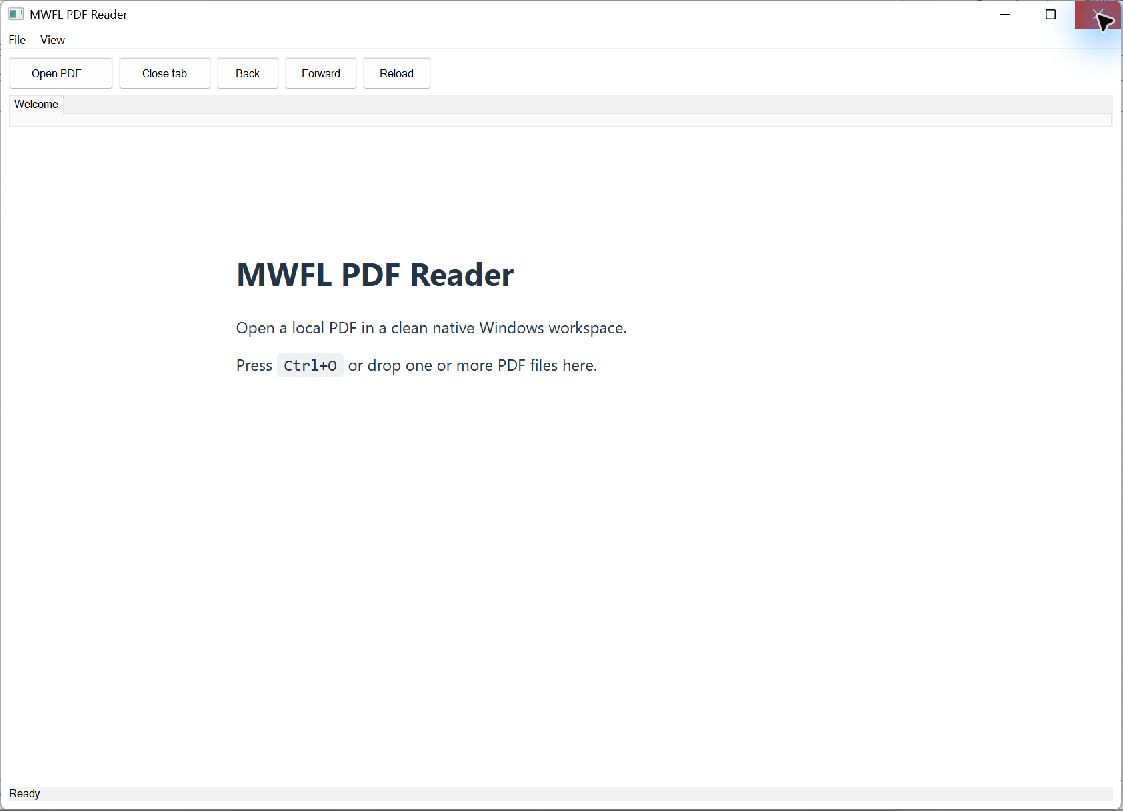
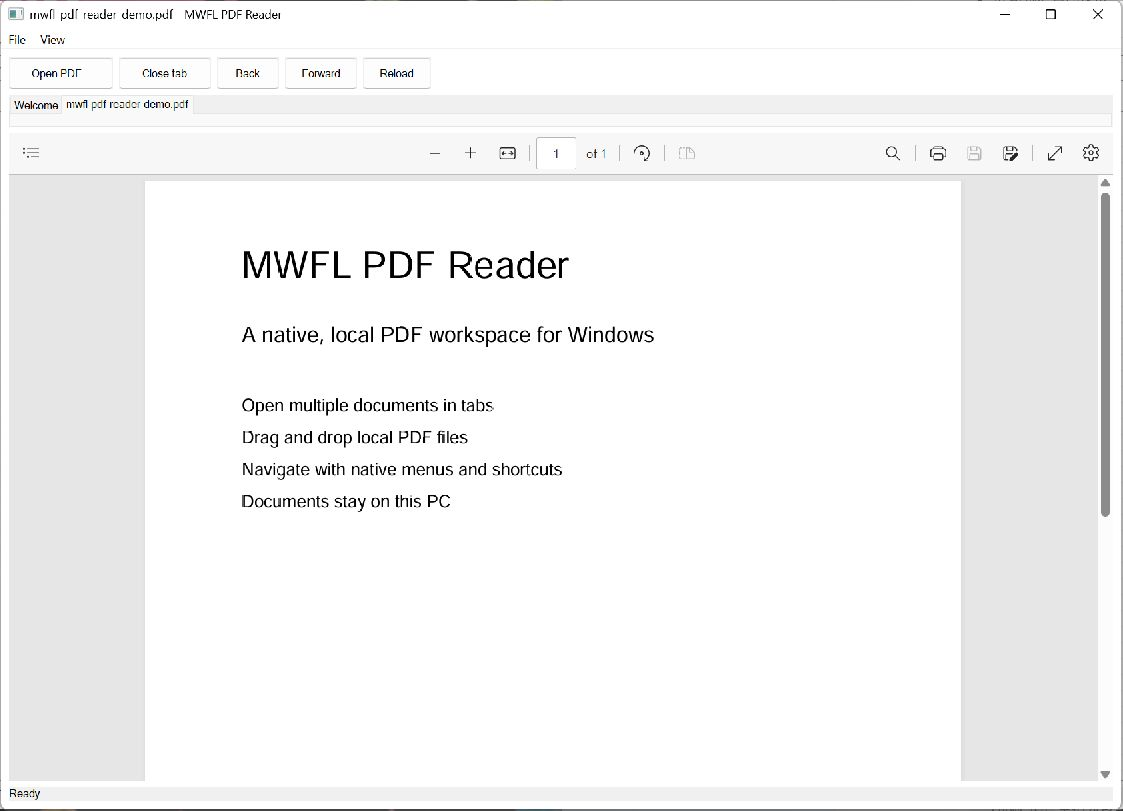
Add portable demo releases

diff --git a/main.cpp b/main.cpp
@@ -74,7 +74,13 @@ bool WriteSelfTestPdf(const std::filesystem::path& path) {
     object(3,
            "<< /Type /Page /Parent 2 0 R /MediaBox [0 0 612 792] "
            "/Resources << /Font << /F1 5 0 R >> >> /Contents 4 0 R >>");
-    constexpr std::string_view content = "BT /F1 24 Tf 72 720 Td (MWFL PDF Reader) Tj ET";
+    constexpr std::string_view content =
+        "BT /F1 28 Tf 72 720 Td (MWFL PDF Reader) Tj "
+        "0 -48 Td /F1 16 Tf (A native, local PDF workspace for Windows) Tj "
+        "0 -52 Td /F1 13 Tf (Open multiple documents in tabs) Tj "
+        "0 -24 Td (Drag and drop local PDF files) Tj "
+        "0 -24 Td (Navigate with native menus and shortcuts) Tj "
+        "0 -24 Td (Documents stay on this PC) Tj ET";
     object(4, std::string{"<< /Length "} + std::to_string(content.size()) + " >>\nstream\n" +
                   std::string(content) + "\nendstream");
     object(5, "<< /Type /Font /Subtype /Type1 /BaseFont /Helvetica >>");
@@ -97,7 +103,9 @@ class PdfViewerWindow final : public mwfl::WindowBase {
     void BuildUI() override {
         self_test_ =
             std::wstring_view{::GetCommandLineW()}.find(L"--self-test") != std::wstring_view::npos;
-        if (!self_test_) {
+        showcase_ =
+            std::wstring_view{::GetCommandLineW()}.find(L"--showcase") != std::wstring_view::npos;
+        if (!self_test_ && !showcase_) {
             const auto loaded = mwfl::LoadRecentFilesFromRegistry(HKEY_CURRENT_USER, kSettingsKey,
                                                                   recent_.GetMaximumEntries());
             if (loaded.Succeeded()) recent_ = std::move(*loaded.value);
@@ -184,14 +192,14 @@ class PdfViewerWindow final : public mwfl::WindowBase {
     }
 
     mwfl::EventResult OnClose() override {
-        if (!self_test_) {
+        if (!self_test_ && !showcase_) {
             mwfl::SavedWindowPlacement placement;
             if (mwfl::CaptureWindowPlacement(GetHwnd(), placement))
                 static_cast<void>(mwfl::SaveWindowPlacementToRegistry(
                     HKEY_CURRENT_USER, kSettingsKey, L"WindowPlacement", placement));
         }
         viewer_.Close();
-        if (self_test_) {
+        if (self_test_ || showcase_) {
             std::error_code ignored;
             std::filesystem::remove_all(user_data_folder_, ignored);
             std::filesystem::remove(self_test_pdf_, ignored);
@@ -261,7 +269,7 @@ class PdfViewerWindow final : public mwfl::WindowBase {
     }
 
     void StartViewer() {
-        if (self_test_)
+        if (self_test_ || showcase_)
             user_data_folder_ = std::filesystem::temp_directory_path() /
                                 (L"mwfl-pdf-viewer-" + std::to_wstring(::GetCurrentProcessId()));
         const bool started = viewer_.Initialize(
@@ -279,6 +287,14 @@ class PdfViewerWindow final : public mwfl::WindowBase {
                      }
                      if (const auto initial = InitialPdfFromCommandLine(); !initial.empty())
                          OpenPath(initial);
+                     else if (showcase_) {
+                         self_test_pdf_ = std::filesystem::temp_directory_path() /
+                                          L"mwfl-pdf-reader-demo.pdf";
+                         if (WriteSelfTestPdf(self_test_pdf_))
+                             OpenPath(self_test_pdf_);
+                         else
+                             status_.SetText(L"The showcase PDF could not be created");
+                     }
                      else
                          ShowWelcome();
                  },
@@ -347,7 +363,7 @@ class PdfViewerWindow final : public mwfl::WindowBase {
         tabs_model_.Add({id, path.filename().wstring(), false, true});
         tabs_model_.Select(id);
         tabs_.Synchronize(tabs_model_);
-        if (!self_test_) {
+        if (!self_test_ && !showcase_) {
             recent_.Add(path);
             RefreshRecentCommands();
             BuildMenu();
@@ -403,6 +419,7 @@ class PdfViewerWindow final : public mwfl::WindowBase {
     std::error_code equivalence_error_;
     std::uint64_t next_tab_id_ = 2;
     bool self_test_ = false;
+    bool showcase_ = false;
     bool self_test_pdf_started_ = false;
     bool navigation_succeeded_ = false;
 };

diff --git a/README.md b/README.md
@@ -21,6 +21,10 @@ MWFL PDF Reader is a clean native Windows workspace for reading local PDF docume
 - Windows 10 or Windows 11, x64.
 - Microsoft Edge WebView2 Runtime. Windows 11 normally includes it.
 
+## Download
+
+Download the versioned `windows-x64-portable.zip` from [GitHub Releases](https://github.com/mwfl/pdf-reader/releases), verify it with the accompanying SHA-256 file, and extract it anywhere. The Microsoft Edge WebView2 Runtime remains a system prerequisite.
+
 ## Build
 
 ```powershell
@@ -32,3 +36,5 @@ ctest --preset vs2026-x64-release
 Visual Studio 2022 is also supported. A standalone `vs2022-x64` build fetches the pinned mwfl v0.1.0 source and WebView2 SDK; the runtime itself remains a system prerequisite.
 
 The automated test creates a valid one-page PDF, opens it through WebView2, verifies navigation and native tab state, and removes its temporary data afterward.
+
+Use `pdf-reader.exe --showcase` to open a generated, disposable demonstration document.
